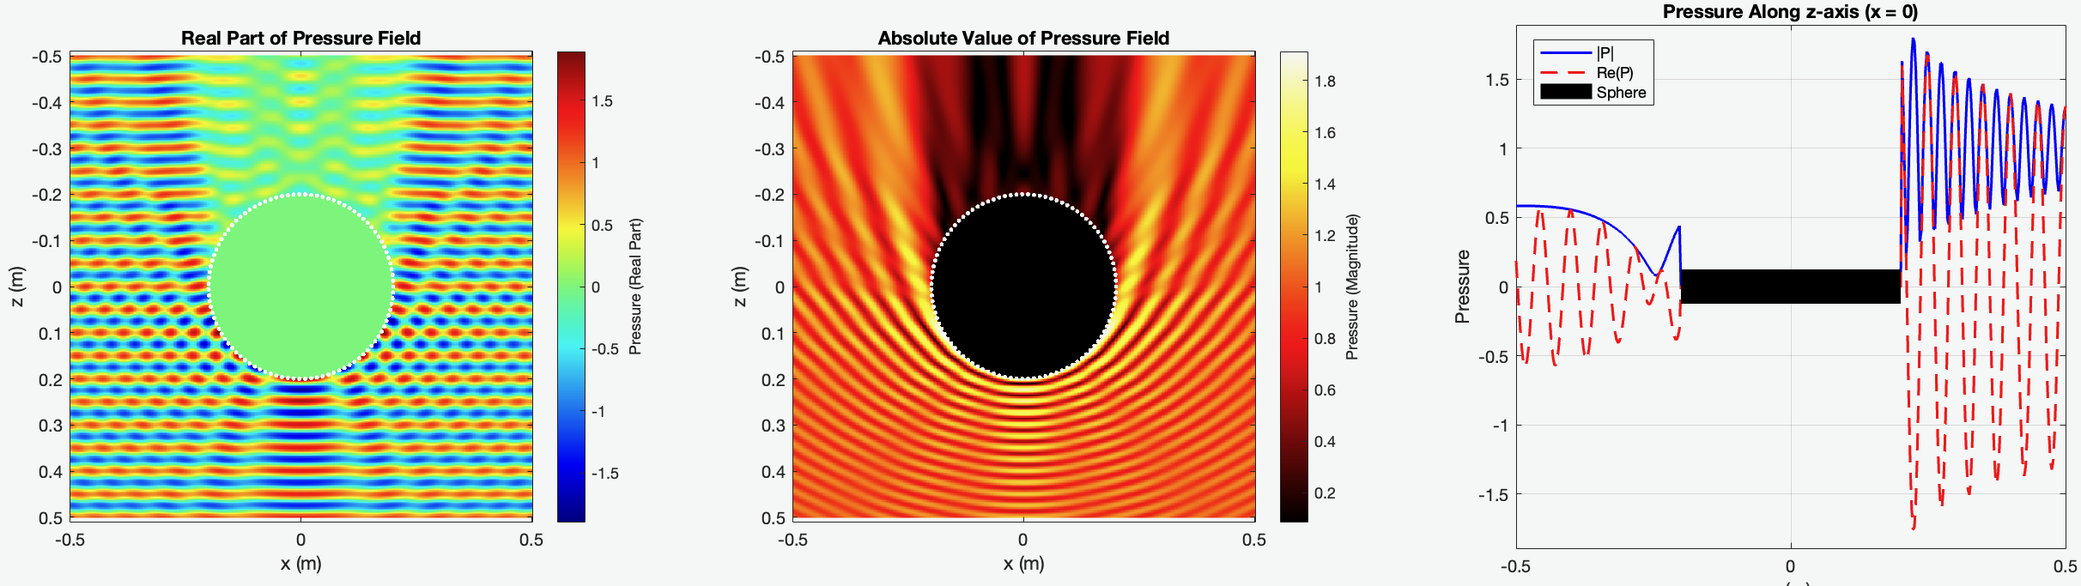
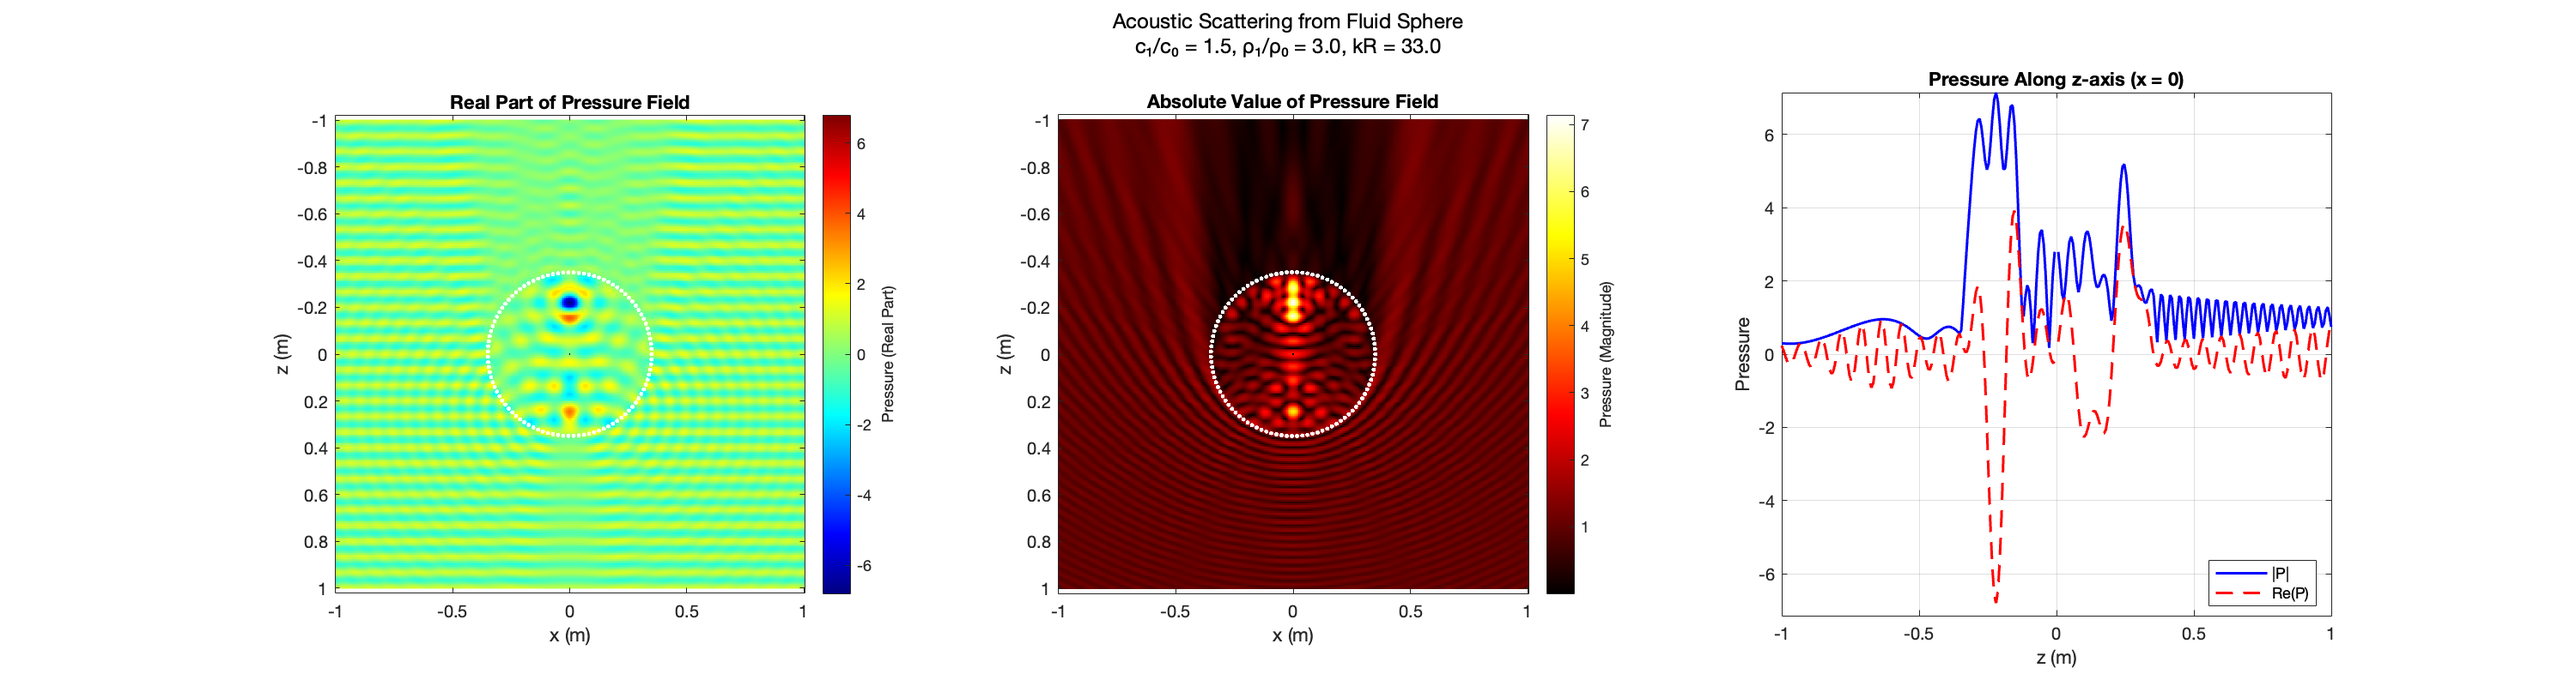
updated plots and examples

diff --git a/examples/example.m b/examples/example.m
@@ -2,9 +2,6 @@
 % This script demonstrates the acoustic scattering from a fluid sphere using
 % Anderson's analytical solution. It visualizes both the real part and magnitude
 % of the scattered pressure field in the xz-plane.
-%
-% The visualization is created progressively, starting from the center and working
-% outward, to provide a real-time view of the computation progress.
 
 %% Clean workspace
 clear
@@ -19,28 +16,42 @@ c0 = 1.0;        % Speed of sound in surrounding medium
 rho0 = 1.0;      % Density of surrounding medium
 
 % Sphere properties
-c1 = 0.3;        % Speed of sound in sphere
-rho1 = 0.05;      % Density of sphere
-R = 0.15;         % Sphere radius
+c1 = 1.5;        % Speed of sound in sphere
+rho1 = 3.0;      % Density of sphere
+R = 0.35;        % Sphere radius
 
 % Wave properties
-f = 35.0;         % Base frequency
-omega = f*2*pi; % Angular frequency (chosen for visible scattering effects)
-order = 50;      % Maximum order for modal expansion
+f = 15;         % Base frequency
+omega = 2*pi*f;  % Angular frequency
+order = 250;     % Maximum order for modal expansion
+D = 1.2;         % Point source distance on the z-axis
+
+% Wavelength in the background medium
+fprintf('Wavelength in the background medium: %.3f m\n', c0/f)
 
 %% Setup computational grid
 % Define spatial grid in xz-plane (y = 0)
-grid_points = 401;
-domain_size = 0.5;
+grid_points = 301;
+domain_size = 1.0;
 x_range = linspace(-domain_size, domain_size, grid_points);
 z_range = linspace(-domain_size, domain_size, grid_points);
 [X, Z] = meshgrid(x_range, z_range);
 
-% Initialize pressure field
-P = zeros(size(X));
+%% Create position matrix for vectorized computation
+% Reshape grid into a matrix of 3D points (y = 0)
+positions = zeros(3, numel(X));
+positions(1,:) = X(:)';  % x coordinates
+positions(2,:) = 0;      % y coordinates (all zero)
+positions(3,:) = Z(:)';  % z coordinates
+
+%% Calculate pressure field (vectorized)
+% Compute pressure for all valid points at once
+P = computeAndersonSphereSolution(positions, c0, rho0, c1, rho1, R, omega, order, ...
+    'kind', 'plane-wave', 'D', D);
+P = reshape(P, size(X));
 
 %% Setup visualization
-figure('Position', [100 100 1500 400], 'Name', 'Anderson Sphere Scattering')
+figure('Position', [100 100 1500 400], 'Name', 'Anderson Sphere Scattering (Vectorized)')
 
 % Setup real part subplot
 ax(1) = subplot(1,3,1);
@@ -70,97 +81,33 @@ title('Absolute Value of Pressure Field')
 xlabel('x (m)')
 ylabel('z (m)')
 hold on
+
+% Draw sphere outline
+theta = linspace(0, 2*pi, 100);
 plot(R*cos(theta), R*sin(theta), 'w.', 'LineWidth', 3)
 hold off
 
 % Setup z-axis line plot
 ax(3) = subplot(1,3,3);
-h3 = plot(z_range, zeros(size(z_range)), 'b-', 'LineWidth', 1.5);
+center_i = ceil(grid_points/2);
+p_z_line = P(:, center_i);
+plot(z_range, abs(p_z_line), 'b-', 'LineWidth', 1.5);
 hold on
-plot(z_range, zeros(size(z_range)), 'r--', 'LineWidth', 1.5);
-plot([-R R], [0 0], 'k', 'LineWidth', 20);  % Sphere boundaries
+plot(z_range, real(p_z_line), 'r--', 'LineWidth', 1.5);
 xlabel('z (m)')
 ylabel('Pressure')
 title('Pressure Along z-axis (x = 0)')
 legend('|P|', 'Re(P)', 'Sphere', 'Location', 'best')
 grid on
-hold off
 
-%% Calculate pressure field
-% Process points in order of increasing distance from center for better visualization
-center_i = ceil(grid_points/2);
-center_j = ceil(grid_points/2);
+% Set color limits for consistent visualization
+p_real_max = max(abs(real(P(:))));
+p_abs_max = max(abs(P(:)));
+p_abs_min = min(abs(P(:)));
 
-% Create flat indices and calculate distances from center
-[X_flat, Z_flat] = meshgrid(1:grid_points, 1:grid_points);
-X_flat = X_flat(:);
-Z_flat = Z_flat(:);
-distances = sqrt((X_flat - center_i).^2 + (Z_flat - center_j).^2);
-[~, order_indices] = sort(distances);
-
-% Setup progress display
-num_points = numel(X);
-point_count = 0;
-txt = annotation('textbox', [0.4, 0.95, 0.2, 0.05], ...
-                'String', 'Progress: 0%', ...
-                'EdgeColor', 'none', ...
-                'HorizontalAlignment', 'center');
-
-% Process points and update visualization
-update_interval = 10;  % Update display every N points
-p_abs_min = inf;
-for idx = 1:length(order_indices)
-    i = X_flat(order_indices(idx));
-    j = Z_flat(order_indices(idx));
-    
-    % Calculate pressure only for points outside the sphere
-    if sqrt(X(j,i)^2 + Z(j,i)^2) > R
-        % Calculate pressure at current point
-        p = [X(j,i); 0; Z(j,i)];  % Point in 3D space (y = 0)
-
-        % Main computation
-        P(j,i) = computeAndersonSphereSolution(p, c0, rho0, c1, rho1, R, omega, order);
-
-        % Update visualization periodically
-        if mod(point_count, update_interval) == 0
-            % Update pressure field plots
-            set(h1, 'CData', real(P));
-            set(h2, 'CData', abs(P));
-            
-            % Update color limits for consistent visualization
-            p_real_max = max(abs(real(P(:))));
-            p_abs_max = max(abs(P(:)));
-            if abs(P(j,i)) < p_abs_min
-                p_abs_min = abs(P(j,i));
-            end
-
-            if ~any(isnan([p_real_max, p_abs_max]))
-                subplot(1,3,1); clim([-p_real_max, p_real_max]);
-                if p_abs_max > p_abs_min
-                    subplot(1,3,2); clim([p_abs_min, p_abs_max]);
-                end
-                
-                % Update z-axis line plot
-                z_line_idx = center_i * ones(size(z_range));
-                p_z_line = P(:, center_i);
-                set(h3, 'XData', z_range, 'YData', abs(p_z_line));
-                h3.Parent.Children(2).YData = real(p_z_line);
-                h3.Parent.YLim = [-p_real_max, p_real_max];
-            end
-            
-            % Update progress display
-            progress = point_count / num_points * 100;
-            txt.String = sprintf('Progress: %.1f%%', progress);
-            drawnow limitrate
-        end
-    end
-    
-    point_count = point_count + 1;
-end
-
-% Final update
-txt.String = '';
-drawnow
+subplot(1,3,1); clim([-p_real_max, p_real_max]);
+subplot(1,3,2); clim([p_abs_min, p_abs_max]);
+subplot(1,3,3); ylim([-p_abs_max, p_abs_max]);
 
 %% Add title with simulation parameters
 sgtitle(sprintf(['Acoustic Scattering from Fluid Sphere\n', ...

diff --git a/examples/example_point_source.m b/examples/example_point_source.m
@@ -1,4 +1,4 @@
-%% Anderson Sphere Scattering Example (Vectorized)
+%% Point Source Scattering Example
 % This script demonstrates the acoustic scattering from a fluid sphere using
 % Anderson's analytical solution. It visualizes both the real part and magnitude
 % of the scattered pressure field in the xz-plane.
@@ -17,13 +17,13 @@ rho0 = 1.0;      % Density of surrounding medium
 
 % Sphere properties
 c1 = 1.5;        % Speed of sound in sphere
-rho1 = 1.5;      % Density of sphere
-R = 0.25;        % Sphere radius
+rho1 = 3.0;      % Density of sphere
+R = 0.35;        % Sphere radius
 
 % Wave properties
-f = 10.0;         % Base frequency
+f = 15;         % Base frequency
 omega = 2*pi*f;  % Angular frequency
-order = 150;     % Maximum order for modal expansion
+order = 250;     % Maximum order for modal expansion
 D = 1.2;         % Point source distance on the z-axis
 
 % Wavelength in the background medium
@@ -31,7 +31,7 @@ fprintf('Wavelength in the background medium: %.3f m\n', c0/f)
 
 %% Setup computational grid
 % Define spatial grid in xz-plane (y = 0)
-grid_points = 201;
+grid_points = 301;
 domain_size = 1.0;
 x_range = linspace(-domain_size, domain_size, grid_points);
 z_range = linspace(-domain_size, domain_size, grid_points);
@@ -65,6 +65,11 @@ xlabel('x (m)')
 ylabel('z (m)')
 hold on
 
+% Draw sphere outline
+theta = linspace(0, 2*pi, 100);
+plot(R*cos(theta), R*sin(theta), 'w.', 'LineWidth', 3)
+hold off
+
 % Setup magnitude subplot
 ax(2) = subplot(1,3,2);
 h2 = imagesc(x_range, z_range, abs(P));
@@ -75,6 +80,12 @@ ylabel(cb2, 'Pressure (Magnitude)');
 title('Absolute Value of Pressure Field')
 xlabel('x (m)')
 ylabel('z (m)')
+hold on
+
+% Draw sphere outline
+theta = linspace(0, 2*pi, 100);
+plot(R*cos(theta), R*sin(theta), 'w.', 'LineWidth', 3)
+hold off
 
 % Setup z-axis line plot
 ax(3) = subplot(1,3,3);
@@ -96,7 +107,7 @@ p_abs_min = min(abs(P(:)));
 
 subplot(1,3,1); clim([-p_real_max, p_real_max]);
 subplot(1,3,2); clim([p_abs_min, p_abs_max]);
-subplot(1,3,3); ylim([-p_real_max, p_real_max]);
+subplot(1,3,3); ylim([-p_abs_max, p_abs_max]);
 
 %% Add title with simulation parameters
 sgtitle(sprintf(['Acoustic Scattering from Fluid Sphere\n', ...

diff --git a/README.md b/README.md
@@ -2,16 +2,16 @@
 
 ![Acoustic scattering visualization](cover_image.png)
 
-This repository provides a MATLAB implementation of Anderson's analytical solution for acoustic scattering from a fluid sphere in a fluid medium. The implementation computes the scattered pressure field at any point outside a fluid sphere when subjected to an incident plane wave or to a point source.
+This repository provides a MATLAB implementation of Anderson's analytical solution for acoustic scattering from a fluid sphere in a fluid medium. The implementation computes the pressure field generated by a fluid sphere when subjected to an incident plane wave or to a point source.
 
 ## Theory
 
 The implementation follows [Anderson's 1950 paper](https://pubs.aip.org/asa/jasa/article-abstract/22/4/426/619489/Sound-Scattering-from-a-Fluid-Sphere), and the subsequent extension of [McNew et al.](https://pmc.ncbi.nlm.nih.gov/articles/PMC3132099/pdf/nihms284533.pdf), which solves the acoustic scattering problem using:
 - Modal expansion using spherical Bessel and Hankel functions for radial components
 - Legendre polynomials for angular dependence
-- Assumes an incident plane wave propagating in the negative z-direction or a point source on the `z`axis, at a distance `D` form the sphere.
+- Assumes an incident plane wave propagating in the negative z-direction or a point source on the `z` axis, at a distance `D` form the sphere.
 
-The solution is valid outside the sphere, for any valid combination of fluid properties (sound speed and density).
+The solution is valid everywhere except at the center of the sphere, where `r=0`, for any valid combination of fluid properties (sound speed and density).
 
 ## Getting Started
 
@@ -56,21 +56,6 @@ Several example scripts are provided to demonstrate the code:
 1. `examples/anderson_sphere_example.m`: An example script showing the scattered field in the x-z plane for a plane wave source
 2. `examples/anderson_sphere_convergence.m`: An example script demonstrating how to analyze the convergence of the solution and provides convergence plots for different directions
 3. `examples/example_point_source.m`: An example script showing the scattered field in the x-z plane for a point source
-
-## Function Documentation
-
-### Main Functions
-
-- `computeAndersonSphereSolution`: Core function implementing Anderson's solution
-- `computeModalExpansion`: Computes the modal expansion of the scattered field
-- `computeModalCoefficient`: Calculates modal coefficients based on boundary conditions
-
-### Helper Functions
-
-- `computeSphericalBesselj`: Spherical Bessel function of the first kind
-- `computeSphericalBessely`: Spherical Bessel function of the second kind
-- `computeSphericalHankel`: Spherical Hankel function
-- Various derivative computation functions for special functions
 
 ## License
 
